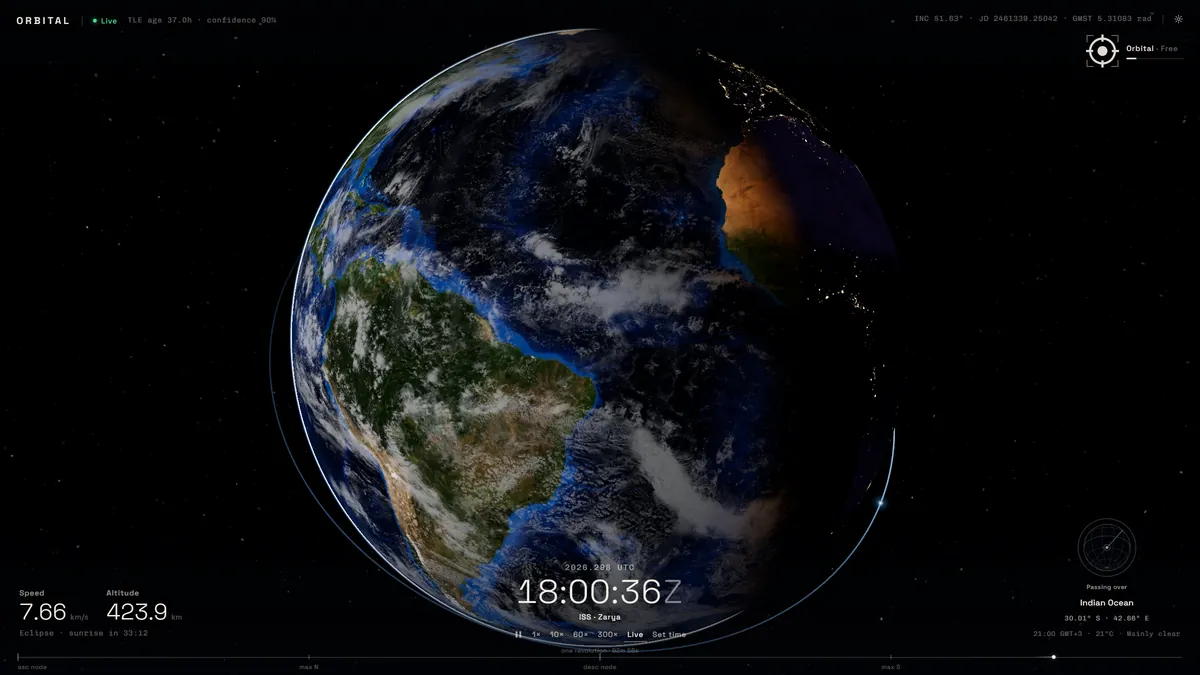
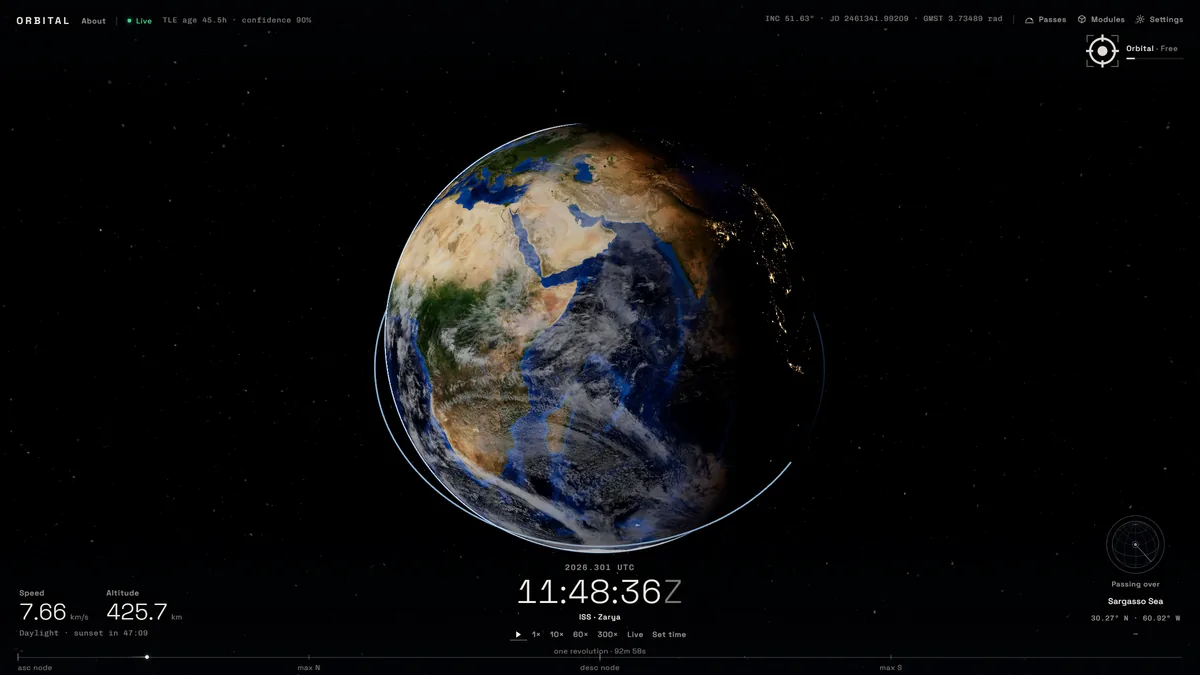
README: new hero, overview and module-explorer images
Re-shot on the real GPU after the sun and tool-row changes: Follow above
the limb over Africa, the overview at the terminator with Asia's lights,
and the exploded station with a module card (replacing the limb shot).
Features and controls now list the module explorer, the tour and M.

diff --git a/README.md b/README.md
@@ -5,7 +5,7 @@
 [![verify](https://github.com/slklnarnv/orbital/actions/workflows/verify.yml/badge.svg)](https://github.com/slklnarnv/orbital/actions/workflows/verify.yml)
 [**Live demo →**](https://orbitaliss.vercel.app)
 
-![The ISS in Follow mode over cloud tops, with the mission HUD: speed, altitude, UTC clock, time controls and the revolution tape](docs/images/hero-follow.webp)
+![The ISS in Follow mode above Earth's limb over Africa, with the mission HUD: speed, altitude, UTC clock, time controls and the revolution tape](docs/images/hero-follow.webp)
 
 Orbital propagates the station's published orbital elements with SGP4, places
 it in an inertial frame above an Earth that turns with sidereal time, and
@@ -15,8 +15,8 @@ point below, and the station's attitude.
 
 | | | |
 |:-:|:-:|:-:|
-| ![Earth overview with the day-night terminator, city lights and the ISS orbit ring](docs/images/earth-overview.webp) | ![The ISS above Earth's limb in Follow mode](docs/images/follow-limb.webp) | ![Close inspection of the full ISS model: modules, truss, radiators and arrays](docs/images/inspect-detail.webp) |
-| Earth overview | Follow: tracking the station at the limb | Inspect: the detailed model |
+| ![Earth overview with the day-night terminator over Africa, the lights of Asia on the night side, and the ISS orbit ring](docs/images/earth-overview.webp) | ![The module explorer: the station exploded into its parts above Earth's limb, with the card for the Cupola](docs/images/modules-exploded.webp) | ![Close inspection of the full ISS model: modules, truss, radiators and arrays](docs/images/inspect-detail.webp) |
+| Earth overview | Module explorer: the station exploded | Inspect: the detailed model |
 
 ## What you are looking at
 
@@ -55,6 +55,9 @@ point below, and the station's attitude.
   animated joints and sun-cast self-shadowing.
 - Camera modes from planetary to close inspection, with one-click Locate
   flights and a reset to the overview
+- Module explorer: point at the station to name a module, open a card with
+  its agency, launch year, mass and purpose, or explode the station into its
+  parts
 - Ground context: the country or ocean below, local time and weather, and a
   ground-track globe
 - Visible passes: when the ISS will next cross your night sky, from an offline
@@ -62,6 +65,8 @@ point below, and the station's attitude.
   in a Web Worker. Your location is never sent anywhere.
 - Optional HDR bloom, lens flare, 3D ground track and visibility footprint
 - Works offline: packaged and cached orbital data, and an offline place index
+- A short guided tour on the first visit, keyboard shortcuts for everything,
+  and screen-reader support
 
 ## How it works
 
@@ -112,12 +117,13 @@ station jump.
 | **Reset View** | Return to the Earth overview |
 | `Space` · `1`–`4` · `0` | Pause or resume · run at 1×, 10×, 60×, 300× · return to live time |
 | `L` · `R` · `H` | Locate the ISS · reset view · hide the HUD |
-| `P` · `G` · `?` · `Esc` | Passes · render settings · keyboard shortcuts · close the open panel |
+| `P` · `M` · `G` · `?` · `Esc` | Passes · module explorer · render settings · keyboard shortcuts · close the open panel |
 | 1× 10× 60× 300× · Live · Set time | Time rate, return to wall clock, seek to a UTC instant |
 | Revolution tape | Drag or click to scrub through the current orbit |
 | **Passes** | Set your location and see the next visible passes; **Watch** plays one |
-| Gear icon | Model quality, orbit style, bloom, lens flare, ground track, shadows |
-| **About** | What is measured and what is illustrative, data sources and credits |
+| **Modules** | Fly to the station and open the module explorer: pick, explode, focus |
+| **Settings** | Model quality, orbit style, bloom, lens flare, ground track, shadows, render scale |
+| **About** | What is measured and what is illustrative, credits, and the guided tour |
 
 Shortcuts pause while you type in a field. A skip link, a text summary of
 the view and spoken mode and sunrise/sunset changes support screen readers;

diff --git a/plans/PROGRESS.md b/plans/PROGRESS.md
@@ -6,6 +6,15 @@
 > Plan 001 (ISS model audit/repair) lives in `plans/001-*.md` + `plans/README.md`.
 > Front door: `CLAUDE.md`. Current state + ranked roadmap: `docs/NEXT_STEPS.md`.
 
+## README refresh (2026-10-28)
+
+- Images re-shot after the sun and tool-row changes: `hero-follow.webp`,
+  `earth-overview.webp`, new `modules-exploded.webp` (follow-limb removed).
+  Headless Edge on the Radeon 780M (D3D11), dev server hooks to seek time
+  and steer the camera, `__orbitalEarth8k = 'on'`. Found while shooting:
+  close-range night lights render as soft blocks (5 km texels at ~1000x
+  scale), recorded in the environment notes.
+
 ## HUD tools, tour, sun and glint polish (2026-10-28)
 
 From the owner's review of the live site (ten items; the Dependabot PRs,

diff --git a/docs/NEXT_STEPS.md b/docs/NEXT_STEPS.md
@@ -7,6 +7,11 @@
 
 ## Current state (2026-10-28)
 
+- **README refresh (2026-10-28)**: new hero (Follow above the limb over
+  Africa), overview (terminator with Asia's lights) and a module-explorer
+  exploded view; the limb shot is retired. Captured on the real GPU with
+  the 8K Earth forced on, at 1600x900 x1.5. Features and controls list the
+  module explorer, the tour and `M`.
 - **HUD tools, tour, sun and glint polish (2026-10-28)**, from the owner's
   live-site review:
   - *Tool row*: Passes, Modules and Settings sit together top right, each a
